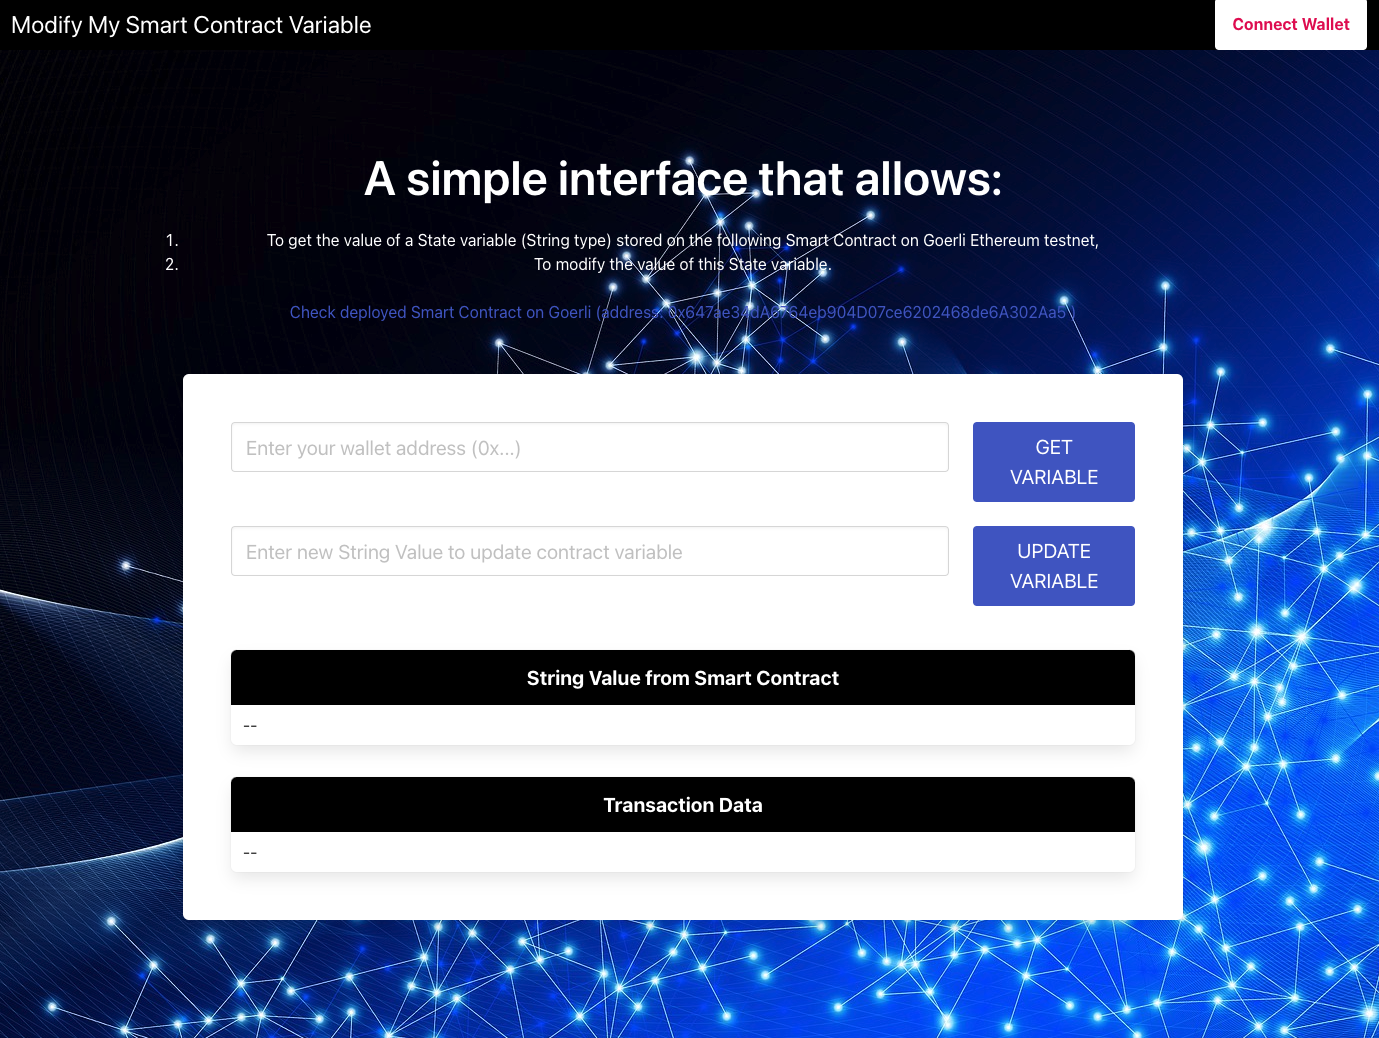
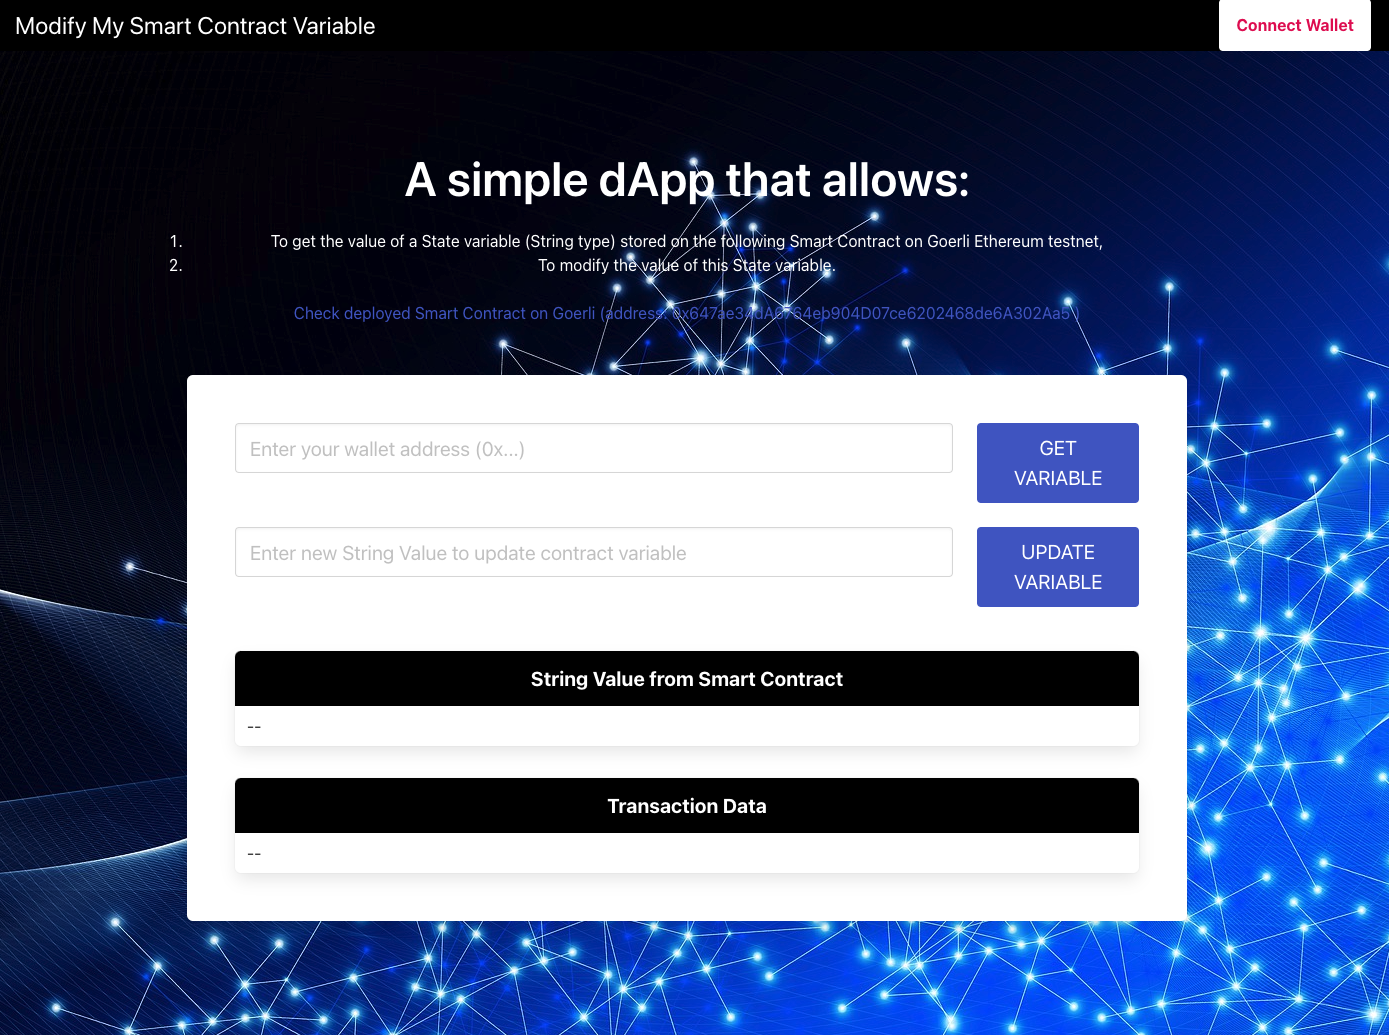
Update screenshot on README file

diff --git a/frontend/src/App.js b/frontend/src/App.js
@@ -181,7 +181,7 @@ function App() {
       <section className='hero is-fullheight'>
         <div className='faucet-hero-body'>
           <div className='container has-text-centered main-content'>
-            <h1 className='title is-1'>A simple interface that allows:</h1>
+            <h1 className='title is-1'>A simple dApp that allows:</h1>
             <h5>
               <ol>
                 <li>
